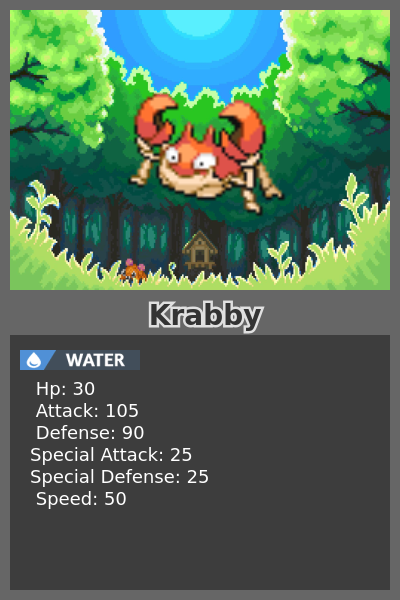
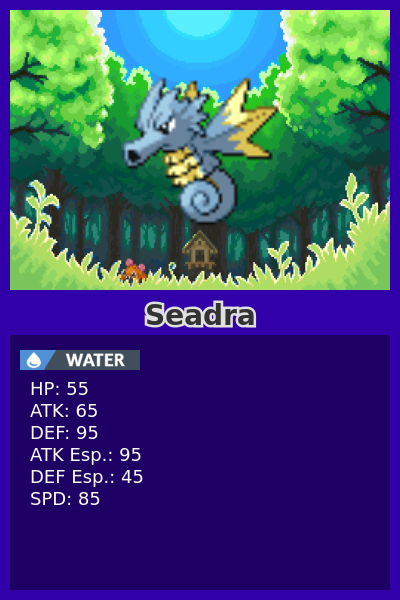
adicao de "raridade" aos cards e criacao da index para exportar funcoes

diff --git a/test-cards.js b/test-cards.js
@@ -1,14 +1,33 @@
 import { createCanvas, loadImage } from 'canvas';
+import axios from 'axios';
 import fs from 'fs';
 
-import { toCapitalize } from './src/lib/func/toCapitalize.js'
+import { toCapitalize, getImageBase64 } from './src/lib/func/index.js'
 import { typesArray } from './assets/types.js'
+import { getPokemonCaptureRate, getPokemonFromPokeAPI, getRandomPokemonByGeneration } from './src/lib/pokemon/index.js'
+
 const typesSpriteBaseURL = "https://raw.githubusercontent.com/PokeAPI/sprites/master/sprites/types/generation-viii/sword-shield/"
 
 const backgroundImgLink = "https://wallpapercave.com/wp/wp2595124.jpg"
 
 const createPokemonCard = async (pokemon) => {
     const { name, types, stats, imageUrl } = pokemon;
+
+    let capture_rate = await getPokemonCaptureRate(name);
+    let backColor = ""
+    if(capture_rate <= 3){
+      backColor = "rgb(29, 29, 29)" //"rgb(255, 230, 0)";
+    } else if(capture_rate <= 30){
+      backColor = "rgb(255, 8, 0)";
+    } else if(capture_rate <= 45){
+      backColor = "rgb(118, 0, 148)";
+    } else if(capture_rate <= 90){
+      backColor = "rgb(50, 0, 168)";
+    } else if(capture_rate <= 190){
+      backColor = "rgb(32, 161, 0)";
+    } else {
+      backColor = "rgb(150, 150, 150)";
+    }
 
     // Configurações do canvas
     let width = 400;
@@ -17,7 +36,8 @@ const createPokemonCard = async (pokemon) => {
     const ctx = canvas.getContext('2d');
 
     // Fundo do card
-    ctx.fillStyle = 'rgb(102, 102, 102)';//'#4169e1'; 
+    //ctx.fillStyle = 'rgb(102, 102, 102)';//'#4169e1'; 
+    ctx.fillStyle = backColor;
     ctx.fillRect(0, 0, width, height);
 
     // Fundo atrás da imagem do Pokémon (retângulo)
@@ -68,9 +88,29 @@ const createPokemonCard = async (pokemon) => {
     let statsYStart = 395;
     ctx.font = '18px Arial';
     Object.entries(stats).forEach(([statName, statValue], index) => {
-        if(statName === "specialAttack") statName = "Special Attack";
-        if(statName === "specialDefense") statName = "Special Defense";
-        ctx.fillText(`${statName.split(" ").length > 1 ? statName : toCapitalize(statName)}: ${statValue}`, 30, statsYStart + index * 22);
+      switch (statName) {
+        case "hp":
+          statName = "HP";
+          break;
+        case "attack":
+          statName = "ATK";
+          break;
+        case "defense":
+          statName = "DEF";
+          break;
+        case "specialAttack": 
+          statName = "ATK Esp.";
+          break;
+        case "specialDefense": 
+          statName = "DEF Esp.";
+          break;
+        case "speed":
+          statName = "SPD";
+          break;
+        default: throw new Error("Unknown statName");
+      }
+
+        ctx.fillText(`${statName}: ${statValue}`, 30, statsYStart + index * 22);
     });
 
     // Salvar o card como uma imagem
@@ -206,5 +246,30 @@ const otherPokemon = {
   __v: 0,
 };
 
+let randomPokemon = await getRandomPokemonByGeneration(1);
+let { name, id, types, stats, abilities, sprites } = randomPokemon;
+let { data: speciesData} = await axios.get(`https://pokeapi.co/api/v2/pokemon-species/${id}`);
+let pokeApiData = await getPokemonFromPokeAPI(name);
 
-createPokemonCard(examplePokemon).catch(console.error);
+let base64 = !randomPokemon ? null : await getImageBase64(sprites.front_default)
+
+let pokeData = {
+    originalTrainerId: "675111c0ce795cd0ac1f76af",
+    currentTrainerId: "675111c0ce795cd0ac1f76af",
+    name: name,
+    pokedexId: id,
+    types: types.map(i => i.type.name),
+    stats: {
+        hp: stats[0].base_stat,
+        attack: stats[1].base_stat,
+        defense: stats[2].base_stat,
+        specialAttack: stats[3].base_stat,
+        specialDefense: stats[4].base_stat,
+        speed: stats[5].base_stat
+    },isLegendary: speciesData.is_legendary,
+    isMythical: speciesData.is_mythical,
+    abilities: abilities,
+    imageUrl: sprites.front_default
+}
+
+createPokemonCard(pokeData).catch(console.error);

diff --git a/src/lib/pokemon/getRandomPokemonByGeneration.js b/src/lib/pokemon/getRandomPokemonByGeneration.js
@@ -20,7 +20,7 @@ export async function getRandomPokemonByGeneration(generation) {
         pokemonSpawnRate = pokemon_species.capture_rate;
   
       } 
-      while (pokemonSpawnRate < randomSpawnRate);
+      while (pokemonSpawnRate > randomSpawnRate);
   
       let response = await axios.get(`https://pokeapi.co/api/v2/pokemon/${pokemonName}`);
       return response.data;

diff --git a/src/lib/func/index.js b/src/lib/func/index.js
@@ -1,0 +1,5 @@
+import { getImageBase64 } from "./base64.js";
+import { logger } from "./logger.js";
+import { toCapitalize } from "./toCapitalize.js";
+
+export { getImageBase64, logger, toCapitalize } 

diff --git a/src/lib/func/toCapitalize.js b/src/lib/func/toCapitalize.js
@@ -11,5 +11,5 @@ export function toCapitalize(ogString){
         string += " "+captalized
     }
     
-    return string
+    return string.trim();
 }
